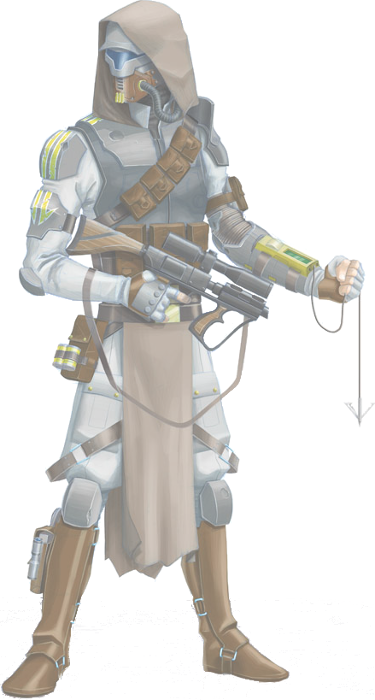
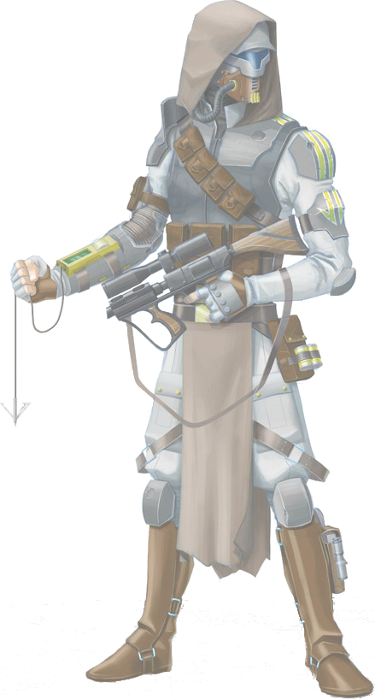
Flipped the images that were facing outward. Some styling.

diff --git a/static/js/app.js b/static/js/app.js
@@ -3,7 +3,6 @@
 	app.controller('mainController', ['$window', '$scope', '$http', function($window, $scope, $http){
 		this.curTab = 1;
 		$scope.species = [];
-		$scope.curSpec = {};
 		$scope.speImg = "";
 
 		angular.element(document).ready(function(){
@@ -25,11 +24,16 @@
 						$scope.species[ret.data.index].attributes = ret.data.result;
 						$scope.curSpec = $scope.species[ret.data.index];
 						$scope.speImg = $scope.curSpec.img_name;
+						var specRight = angular.element(document.querySelector("#specRight"));
+						specRight.addClass("fade_in");
+
 					}
 				});
 			} else {
 				$scope.curSpec = $scope.species[ind];
 				$scope.speImg = $scope.curSpec.img_name;
+				var specRight = angular.element(document.querySelector("#specRight"));
+				specRight.addClass("fade_in");
 			}
 		}
 

diff --git a/static/css/main.css b/static/css/main.css
@@ -118,6 +118,10 @@ body {
 	position: relative;
 }
 
+.right_page_form {
+	position: initial;
+}
+
 .right_page_in {
 	margin-top: 1.5em;
 	padding-left: 2em;
@@ -185,7 +189,8 @@ body {
 }
 
 .innerList {
-	overflow: auto;
+	overflow-y: auto;
+	overflow-x: hidden;
 	height: 68vh;
 }
 
@@ -250,7 +255,7 @@ span.button_text:hover {
 .next_butt {
 	position: absolute;
 	right: 35px;
-	top: -10px;
+	top: 10px;
 }
 
 ul {
